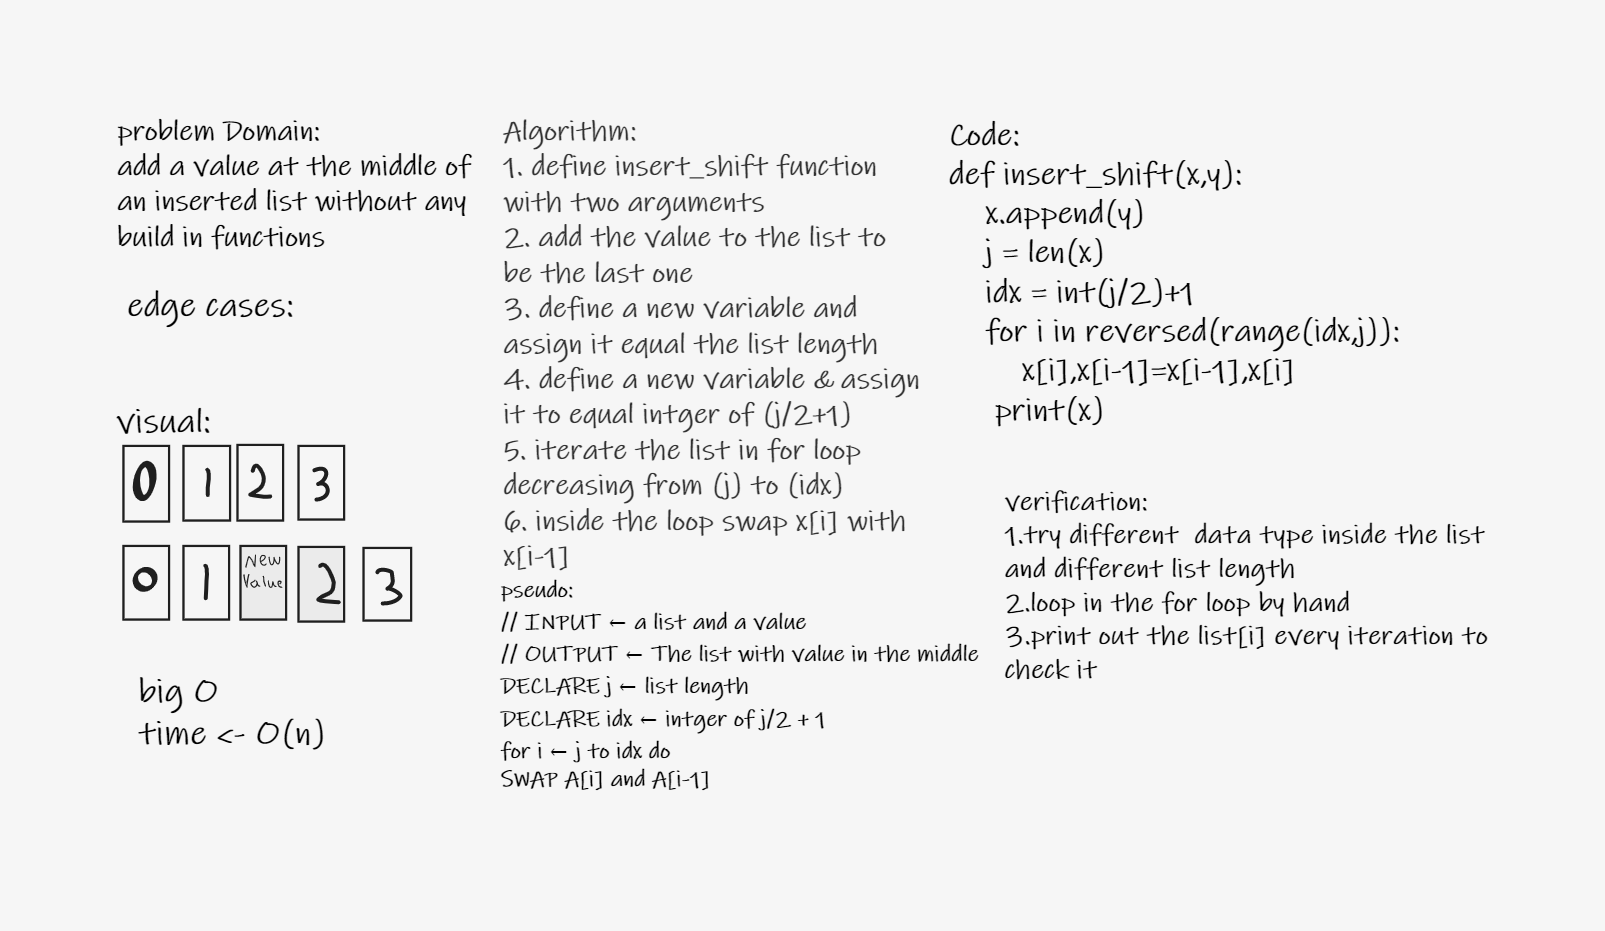
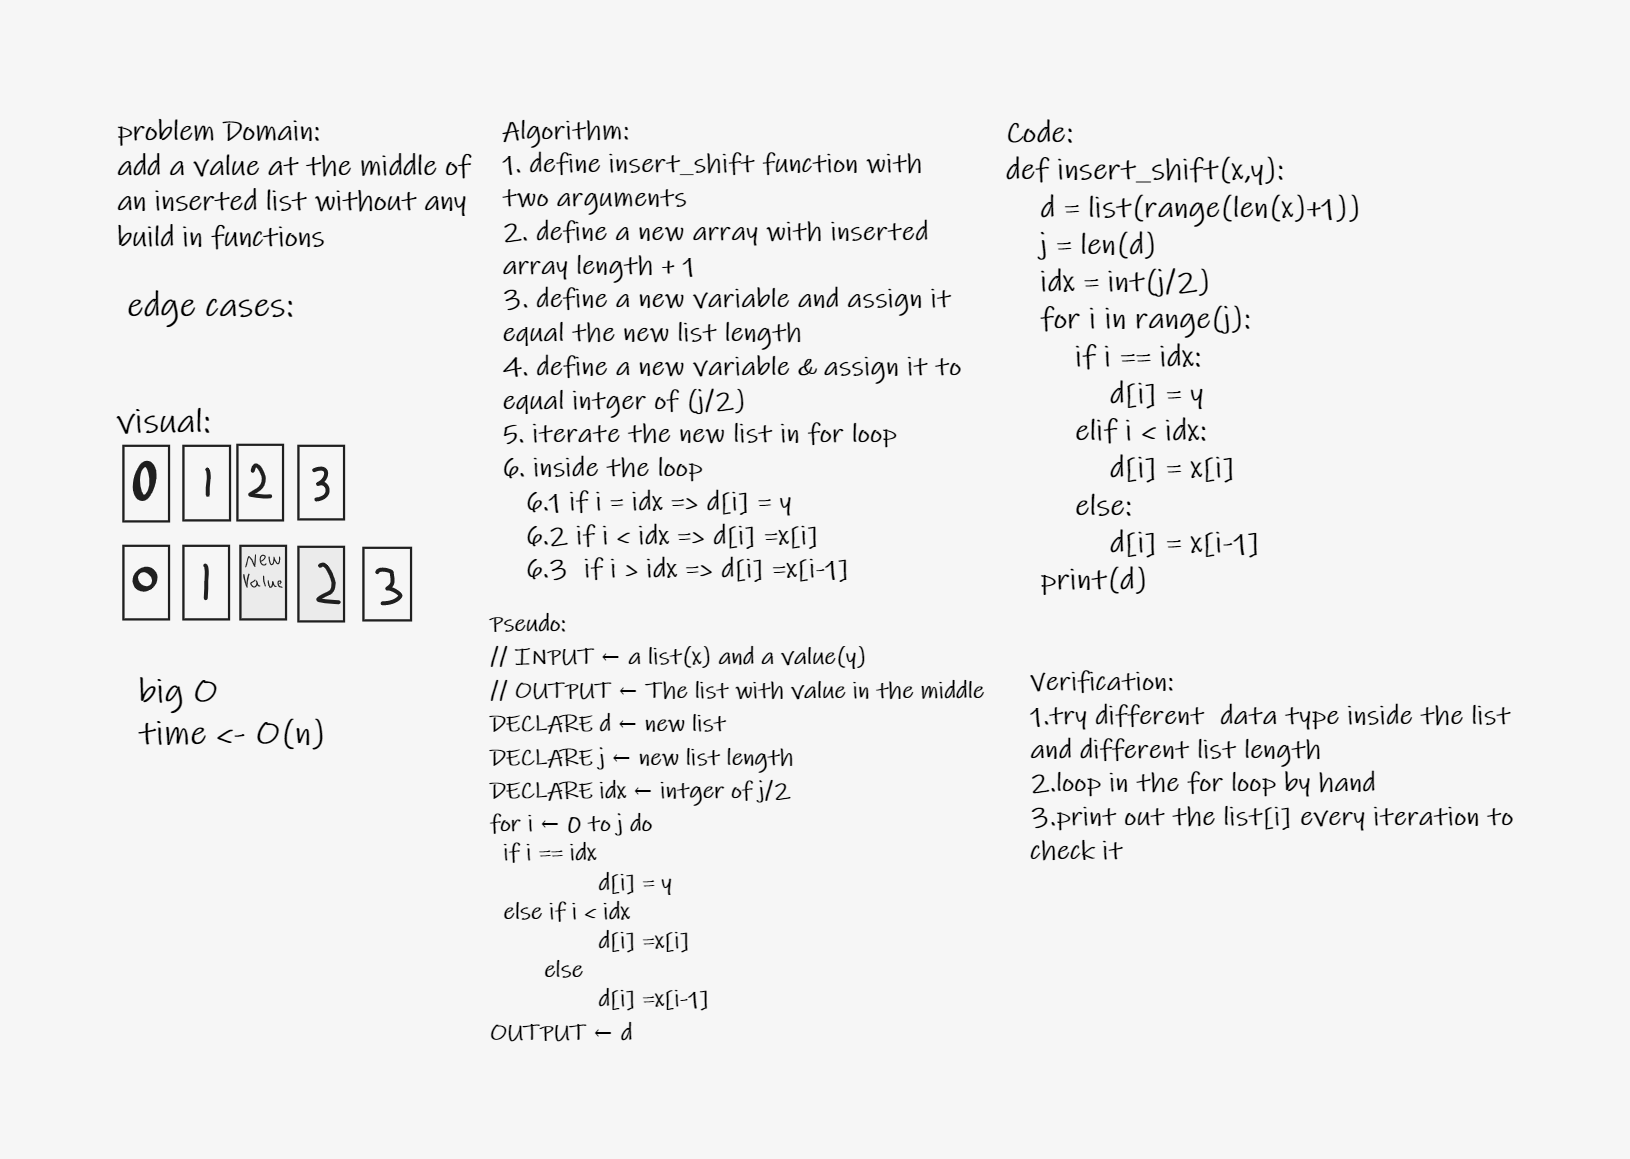
resubmit

Changed region(s): [[0.0623, 0.0934, 0.9346, 0.9033], [0.0623, 0.3115, 0.2492, 0.6853], [0.0935, 0.7164, 0.2181, 0.8099]]

diff --git a/python/code_challenges/array-insert-shift/testtt.py b/python/code_challenges/array-insert-shift/testtt.py
@@ -1,13 +1,19 @@
-x= [1,2,3]
-y=23
+x = [42,8,15,23,42]
+y = 16
 
-def tet(x,y):
-    x.append(y)
-    j = len(x)
-    idx = int(j/2)+1
-    for i in reversed(range(idx,j)):
-        x[i],x[i-1]=x[i-1],x[i]
 
-tet(x,y)
-print(x)
+def tet(x, y):
+    d = list(range(len(x)+1))
+    j = len(d)
+    idx = int(j/2)
+    for i in range(j):
+        if i == idx:
+            d[i] = y
+        elif i < idx:
+            d[i] = x[i]
+        else:
+            d[i] = x[i-1]
+    print(d)
 
+
+tet(x, y)

diff --git a/python/code_challenges/array-insert-shift/README.md b/python/code_challenges/array-insert-shift/README.md
@@ -5,6 +5,6 @@
 ![reveinsert_shiftrse](insert_shift.png)
 
 ## Approach & Efficiency
-1.simple math 
-2.one for loop to itreate inside the list.
-3.swaping 
+
+1. simple math
+2. one for loop to itreate inside the list.
